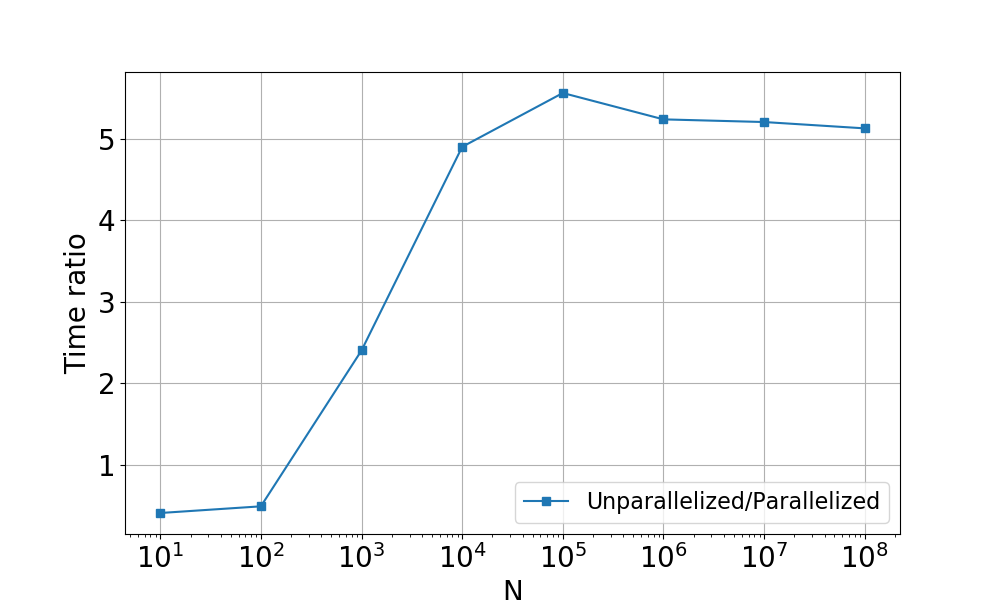
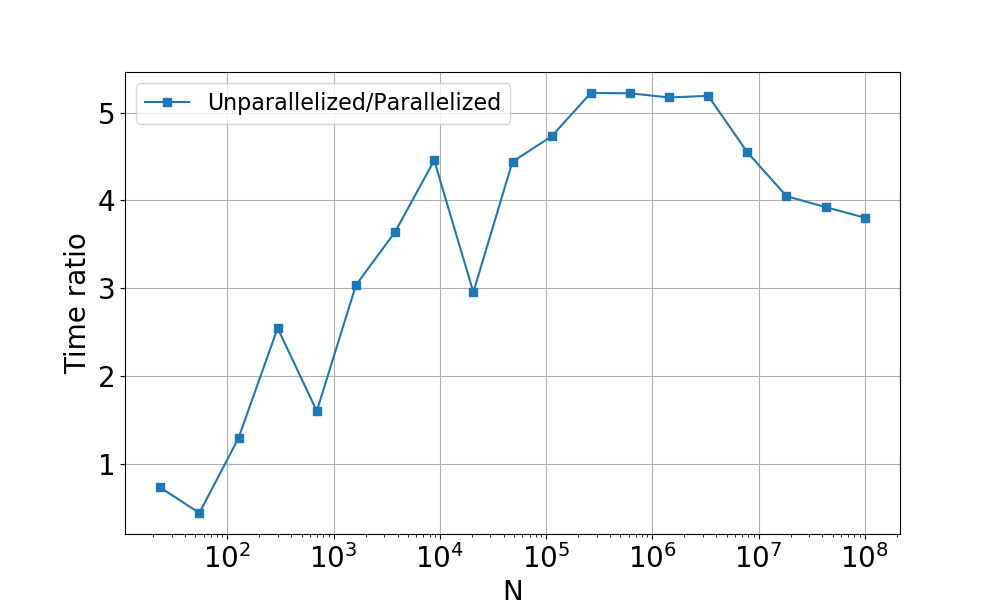
Add figures and results

diff --git a/Project3/src/python/post_process_gaussquad.py b/Project3/src/python/post_process_gaussquad.py
@@ -13,7 +13,7 @@ FIGDIR = '../../figures/'
 
 # Initialize parser
 parser = argparse.ArgumentParser(description=parser_description)
-parser.add_argument('--input', default=DATADIR+'gauss_2_30.csv',help=filepath_help)
+parser.add_argument('--input', default=DATADIR+'gaussQuad.csv',help=filepath_help)
 
 
 if __name__ == '__main__':
@@ -25,8 +25,8 @@ if __name__ == '__main__':
     df = pd.read_csv(filename)
     print(df)
 
-    # loglog plot of error
-    plt.xscale('log')
+    # Plot of error
+    # plt.xscale('log')
     plt.yscale('log')
     df['error_leg'] = np.abs(df['error_leg'])
     df['error_lag'] = np.abs(df['error_lag'])
@@ -40,4 +40,40 @@ if __name__ == '__main__':
     plt.savefig(FIGDIR+'gauss_error.png')
     plt.clf()
 
-    #
+    # Timings of gauss quadrature
+
+    plt.yscale('log')
+    plt.plot(df['N'],df['time_leg'], label='time legendre', marker='s')
+    plt.plot(df['N'],df['time_lag'], label='time laguerre', marker='o')
+    plt.plot(df['N'], df['time_leg']/df['time_lag'], label='time legendre / time laguerre', marker='x')
+    plt.xlabel('N')
+    plt.ylabel('Time [s]')
+    plt.legend()
+    plt.grid()
+    plt.savefig(FIGDIR+'gauss_time.png')
+    plt.clf()
+
+
+    # Compare error/time ratios of gauss and monte-carlo
+    mc = pd.read_csv(DATADIR+'montecarlo.csv')
+
+    plt.yscale('log')
+    plt.xscale('log')
+    mc['error_importance'] = np.abs(mc['error_importance'])
+    mc['error_brute_pl'] = np.abs(mc['error_brute_pl'])
+    # plt.plot(mc['time_importance_pl'],mc['error_importance']/mc['time_importance_pl'], label='Importance',marker='x')
+    # plt.plot(mc['time_brute_pl'],mc['error_brute_pl']/mc['time_brute_pl'], label='Brute', marker='x')
+    # plt.plot(df['time_leg'], df['error_leg']/df['time_leg'], label='Legendre', marker='s', alpha=0.5)
+    # plt.plot(df['time_lag'], df['error_lag']/df['time_lag'], label='Laguerre', marker='s', alpha=0.5)
+
+    plt.plot(mc['time_importance_pl'],mc['error_importance'], label='Importance',marker='x')
+    plt.plot(mc['time_brute_pl'],mc['error_brute_pl'], label='Brute', marker='x')
+    plt.plot(df['time_leg'], df['error_leg'], label='Legendre', marker='s', alpha=0.5)
+    plt.plot(df['time_lag'], df['error_lag'], label='Laguerre', marker='s', alpha=0.5)
+
+    plt.legend()
+    plt.xlabel('Time [s]')
+    plt.ylabel('Error')
+    plt.grid()
+    plt.savefig(FIGDIR+'time_compare.png')
+    # plt.show()

diff --git a/Project3/src/python/post_process_montecarlo.py b/Project3/src/python/post_process_montecarlo.py
@@ -42,7 +42,7 @@ if __name__ == '__main__':
     print(df)
 
 
-    # Calculate and plot standard deviation / time ratios
+    # Calculate and plot standard deviation versus N
     std_time_importance = (df['std_importance']/df['time_importance_pl'])
     std_time_brute = df['std_brute_pl']/df['time_brute_pl']
     std_time_ratio = std_time_brute/std_time_importance
@@ -57,10 +57,23 @@ if __name__ == '__main__':
     plt.xlabel('N')
     plt.ylabel('standard deviation/time')
     plt.legend()
-    plt.savefig(FIGDIR+'mc_std_time.png')
+    plt.savefig(FIGDIR+'mc_std_time_ratio.png')
     plt.clf()
 
 
+    # Plot standard deviation versus N
+    plt.xscale('log')
+    plt.yscale('log')
+
+    plt.plot(df['N'], df['std_importance'], label='Brute', marker='o')
+    plt.plot(df['N'], df['std_brute_pl'], label='Importance',marker='s')
+    plt.plot(df['N'], df['std_brute_pl']/df['std_importance'], label='Brute/Importance',marker='x')
+    plt.grid()
+    plt.xlabel('N')
+    plt.ylabel('standard deviation/time')
+    plt.legend()
+    plt.savefig(FIGDIR+'mc_std_time.png')
+    plt.clf()
 
 
 
@@ -95,6 +108,20 @@ if __name__ == '__main__':
     plt.savefig(FIGDIR+'mc_time_ratio.png')
     # plt.show()
     plt.clf()
+
+
+
+    # "3D" plot of std, error and time
+    # plt.xscale('log')
+    # plt.yscale('log')
+    # ax1 = plt.scatter(df['std_importance'], df['error_importance'],c=df['time_importance_pl'],marker='o', cmap='Oranges')
+    # ax2 = plt.scatter(df['std_brute_pl'], df['error_brute_pl'],c=df['time_brute_pl'],marker='s', cmap='Greens')
+    #
+    # plt.xlabel('Standard deviation')
+    # plt.ylabel('Error')
+    # plt.colorbar(ax1)
+    # plt.colorbar(ax2)
+    # plt.show()
 
 
     # Plot confidence intervals
